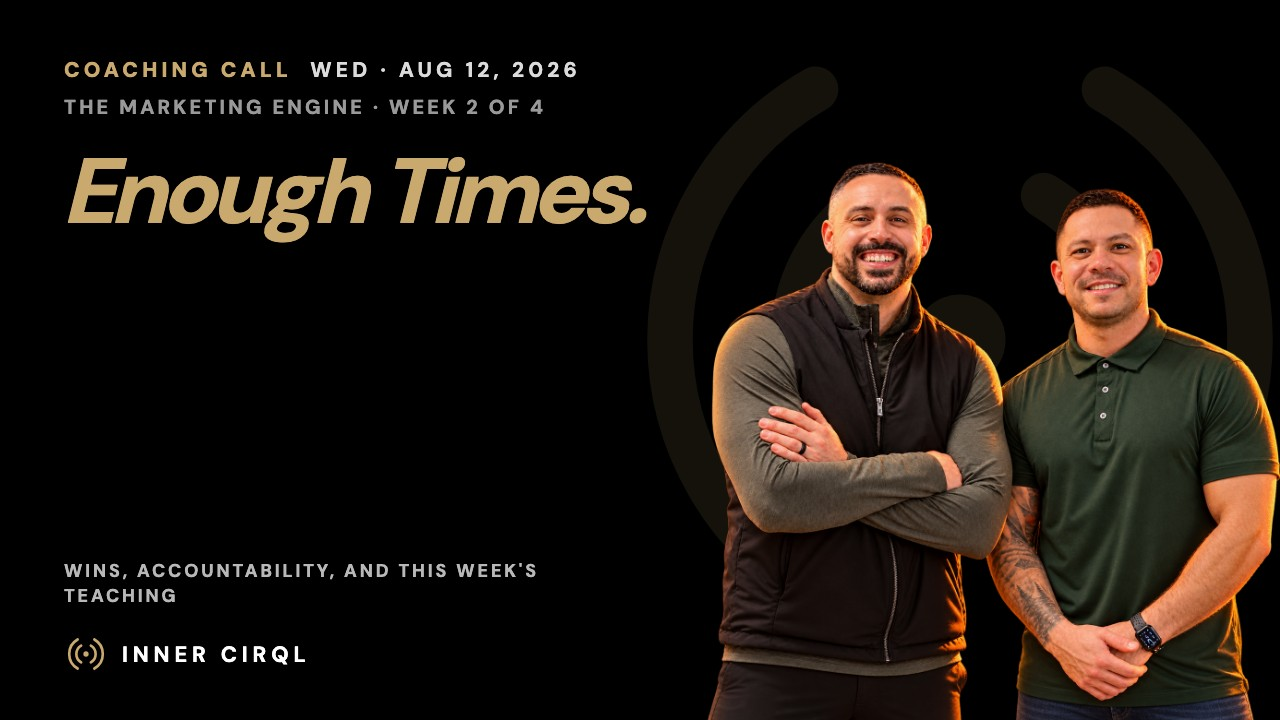
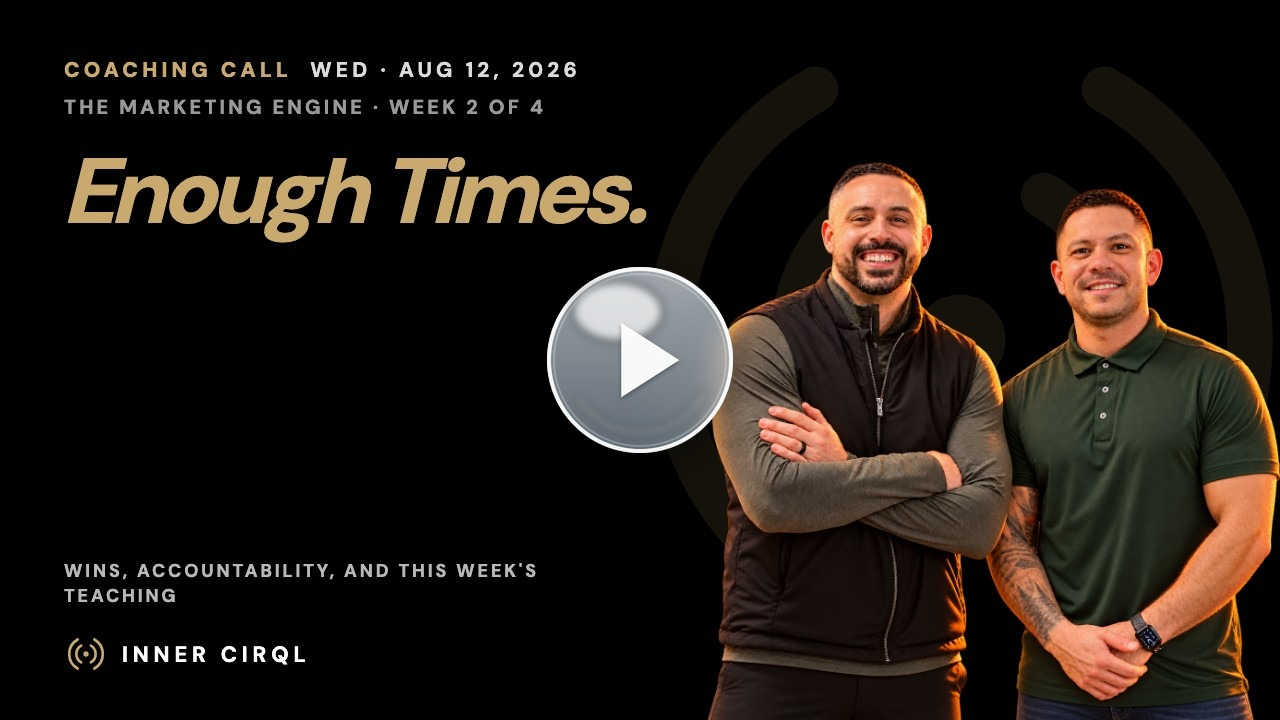
Training: retitle Aug 12 coaching call (The Marketing Engine · Week 2 · Enough Times.) + thumbnail

Changed region(s): [[0.4062, 0.3667, 0.5938, 0.6417]]

diff --git a/training/index.html b/training/index.html
@@ -94,6 +94,26 @@ window.LIBRARY = {
   ],
   "items": [
     {
+      "id": "v-2026-08-12",
+      "date": "2026-08-12",
+      "dateLabel": "August 12, 2026",
+      "series": "engine",
+      "week": 2,
+      "name": "Enough Times.",
+      "title": "The Marketing Engine · Week 2 · Enough Times.",
+      "headline": [
+        "Enough",
+        "Times."
+      ],
+      "sub": "The Marketing Engine · Week 2 of 4",
+      "desc": "Follow-up is marketing. Say it enough times and watch it compound: pick your number, write it into the tracker, and let Clara run the touches. Wins, accountability, and the teaching segment, edited replay.",
+      "href": "https://coach.theinnercirql.com/2026-08-12/",
+      "pdf": null,
+      "slides": null,
+      "embed": "https://www.youtube.com/embed/EGGsCkQDVTc?rel=0&modestbranding=1",
+      "thumb": "/assets/thumbs/aug-12-call.jpg?v=29920126"
+    },
+    {
       "id": "v-2026-08-05",
       "date": "2026-08-05",
       "dateLabel": "August 5, 2026",
@@ -532,26 +552,6 @@ window.LIBRARY = {
       "slides": null,
       "embed": "https://www.youtube.com/embed/5wY_vSqi8dg?rel=0&modestbranding=1",
       "thumb": "/assets/thumbs/aug-26-call.jpg?v=1"
-    },
-    {
-      "id": "v-2026-08-12",
-      "date": "2026-08-12",
-      "dateLabel": "August 12, 2026",
-      "series": "engine",
-      "week": 2,
-      "name": "Enough Times.",
-      "title": "The Marketing Engine · Week 2 · Enough Times.",
-      "headline": [
-        "Enough",
-        "Times."
-      ],
-      "sub": "The Marketing Engine · Week 2 of 4",
-      "desc": "Follow-up is marketing. Say it enough times and watch it compound: pick your number, write it into the tracker, and let Clara run the touches. Wins, accountability, and the teaching segment, edited replay.",
-      "href": "https://coach.theinnercirql.com/2026-08-12/",
-      "pdf": null,
-      "slides": null,
-      "embed": "https://www.youtube.com/embed/EGGsCkQDVTc?rel=0&modestbranding=1",
-      "thumb": "/assets/thumbs/aug-12-call.jpg?v=1"
     },
     {
       "id": "t-become-a-listing-magnet",
